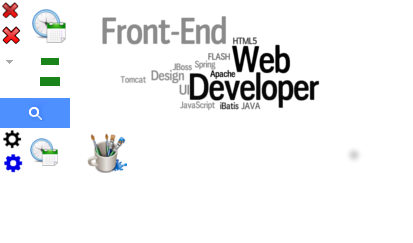
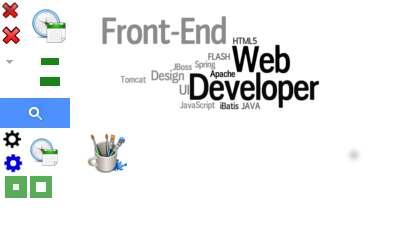
Removed init function from widget object, passed object as argument in createElement

Changed region(s): [[0.0, 0.7202, 0.1453, 0.8354]]

diff --git a/js/widget.js b/js/widget.js
@@ -1,11 +1,14 @@
 var widget = {
 	columnNumber: 0,
 	createElement: function(){
-		var parent = arguments[0],
-			tagName = arguments[1],
-			element = document.createElement(tagName);
-		for(var i=2, len=arguments.length; i<len;i=i+2){
-			element.setAttribute(arguments[i],arguments[i+1]);
+		var parameters = arguments[0];
+		var parent = parameters['parent'],
+			tagName = parameters['tagName'],
+			element = document.createElement(tagName),
+			attributes = parameters['attributes'];
+		for(var thisAttribute in attributes){
+			var attribute = (thisAttribute=="className")?"class":thisAttribute;
+			element.setAttribute(attribute,attributes[thisAttribute]);
 		}
 		parent.appendChild(element);
 		return element;
@@ -42,41 +45,38 @@ var widget = {
 		// console.log("in createNewWidget");
 		var thisWidget = {};
 		thisWidget.parent = parent;
-		thisWidget.hShadow = widget.createElement(parent,"div","class","H-shadow"),
-		thisWidget.vShadow = widget.createElement(thisWidget.hShadow,"div","class","V-shadow"), 
-		thisWidget.contentWindow = widget.createElement(thisWidget.vShadow,"div","class","window"),
-		thisWidget.titleBar = widget.createElement(thisWidget.contentWindow,"div","class","title-bar clearfix"),
-		thisWidget.anchor = widget.createElement(thisWidget.titleBar,"a","href","#"),
-		thisWidget.widgetIcon = widget.createElement(thisWidget.titleBar,"div","class","widget-icon"),
-		thisWidget.title = widget.createElement(thisWidget.titleBar,"div","class","title"),
-		thisWidget.windowButtons = widget.createElement(thisWidget.titleBar,"div","class","window-buttons"),
-		thisWidget.widgetMenu = widget.createElement(thisWidget.windowButtons,"a","class","widget-menu","href","#"),
-		thisWidget.windowSettings = widget.createElement(thisWidget.widgetMenu,"div","class","window-settings"),
-		thisWidget.windowSettingsMenu = widget.createElement(thisWidget.windowSettings,"ul","class","window-settings-menu"),
-		thisWidget.minimizeButton = widget.createElement(thisWidget.windowButtons,"span", "class","window-minimize"),
-		thisWidget.closeButton = widget.createElement(thisWidget.windowButtons,"span", "class","window-close"),
-		thisWidget.body = widget.createElement(thisWidget.contentWindow,"div","class","body")
-		widget.attachEventHandlers(thisWidget);
-		widget.addMenuItems(thisWidget.windowSettingsMenu,"Delete this Gadget","Minimize this Gadget","Maximize this Gadget");
+		thisWidget.hShadow = this.createElement({'parent':parent,'tagName':"div",attributes:{"className":"H-shadow"}});
+		thisWidget.vShadow = this.createElement({'parent':thisWidget.hShadow,'tagName':"div",attributes:{"className":"V-shadow"}});
+		thisWidget.contentWindow = this.createElement({'parent':thisWidget.vShadow,'tagName':"div",attributes:{"className":"window"}});
+		thisWidget.titleBar = this.createElement({'parent':thisWidget.contentWindow,'tagName':"div",attributes:{"className":"title-bar clearfix"}});
+		thisWidget.anchor = this.createElement({'parent':thisWidget.titleBar,'tagName':"a",attributes:{"href":"#"}});
+		thisWidget.widgetIcon = this.createElement({'parent':thisWidget.titleBar,'tagName':"div",attributes:{"className":"widget-icon"}});
+		thisWidget.title = this.createElement({'parent':thisWidget.titleBar,'tagName':"div",attributes:{"className":"title"}});
+		thisWidget.windowButtons = this.createElement({'parent':thisWidget.titleBar,'tagName':"div",attributes:{"className":"window-buttons"}});
+		thisWidget.widgetMenu = this.createElement({'parent':thisWidget.windowButtons,'tagName':"a",attributes:{"className":"widget-menu","href":"#"}});
+		thisWidget.windowSettings = this.createElement({'parent':thisWidget.widgetMenu,'tagName':"div",attributes:{"className":"window-settings"}});
+		thisWidget.windowSettingsMenu = this.createElement({'parent':thisWidget.windowSettings,'tagName':"ul",attributes:{"className":"window-settings-menu"}});
+		thisWidget.minimizeButton = this.createElement({'parent':thisWidget.windowButtons,'tagName':"span",attributes: {"className":"window-minimize"}});
+		thisWidget.closeButton = this.createElement({'parent':thisWidget.windowButtons,'tagName':"span", attributes:{"className":"window-close"}});
+		thisWidget.body = this.createElement({'parent':thisWidget.contentWindow,'tagName':"div",attributes:{"className":"body"}});
+		this.attachEventHandlers(thisWidget);
+		this.addMenuItems(thisWidget.windowSettingsMenu,"Delete this Gadget","Minimize this Gadget","Maximize this Gadget");
 		thisWidget.title.innerHTML = "TITLE" + columnNo;
 		thisWidget.body.innerHTML = "Hello Vishnu";
 
 	},
 	addNewWidget: function(){
-		// console.log("in addNewWidget");
 		widget.columnNumber=(widget.columnNumber+1)%4;
 		if(widget.columnNumber==0){ widget.columnNumber=1;}
 		var column = document.getElementById("column"+widget.columnNumber);
 		widget.createNewWidget(column, widget.columnNumber);
 		
 	},
-
-	// Doubtful if this way is correct
-	init: function(){
-		// console.log("in init");
-		var addGadget = document.getElementById("addGadget");
-		addGadget.onclick = this.addNewWidget;
-	}
 };
-window.onload = widget.init();
+window.onload = function(){
+	addGadget = document.getElementById("addGadget");
+	addGadget.onclick = function(){
+		widget.addNewWidget.call(widget);
+	};
+};
 

diff --git a/css/widget.css b/css/widget.css
@@ -90,12 +90,15 @@
 	background: url(../images/small_images.png);
 	background-position: -40px 192px;
 }
-.window-maximize{
-	display: none;
-	background-color: green;
-}
 .window-minimize:hover{
 	background-position: -40px 171px;
+}
+.window-maximize{
+	background: url(../images/small_images.png);
+	background-position: -6px 65px;
+}
+.window-maximize:hover{
+	background-position: -31px 65px;
 }
 .window-close{
 	background-size: contain;
